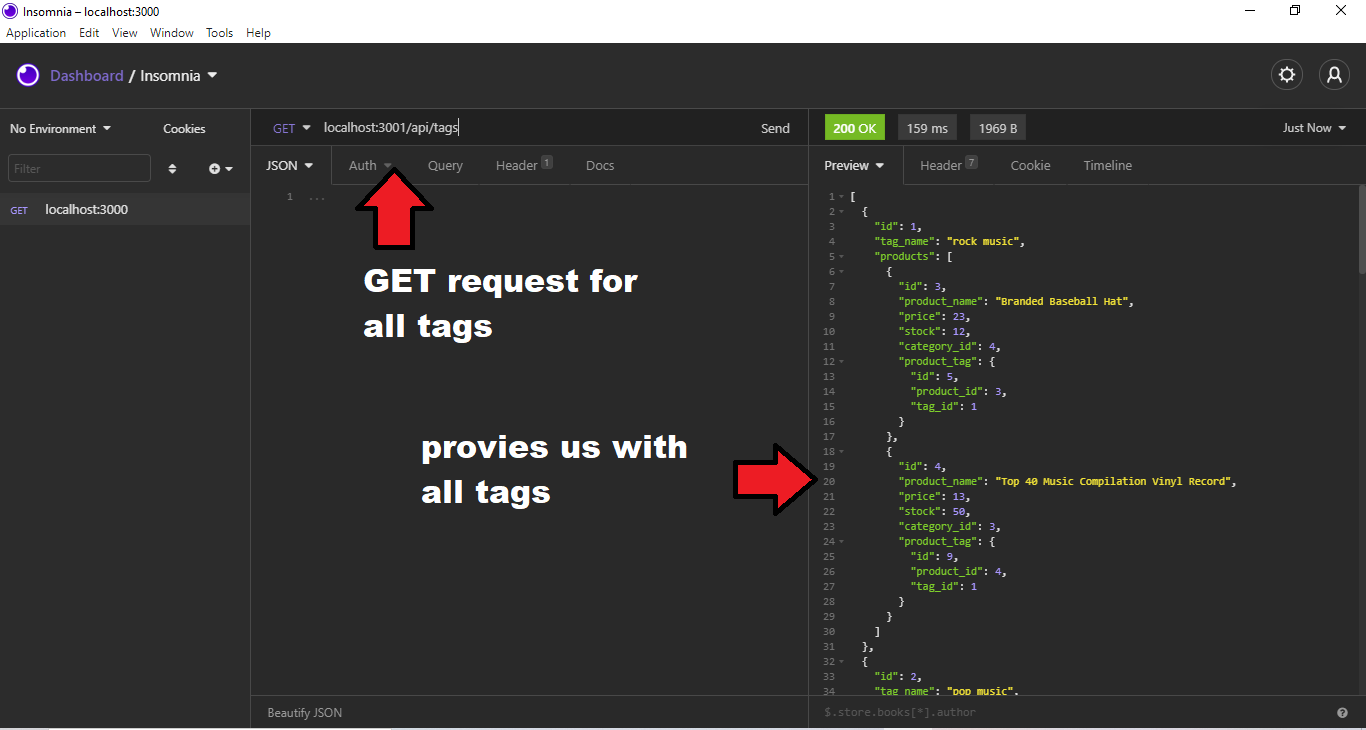
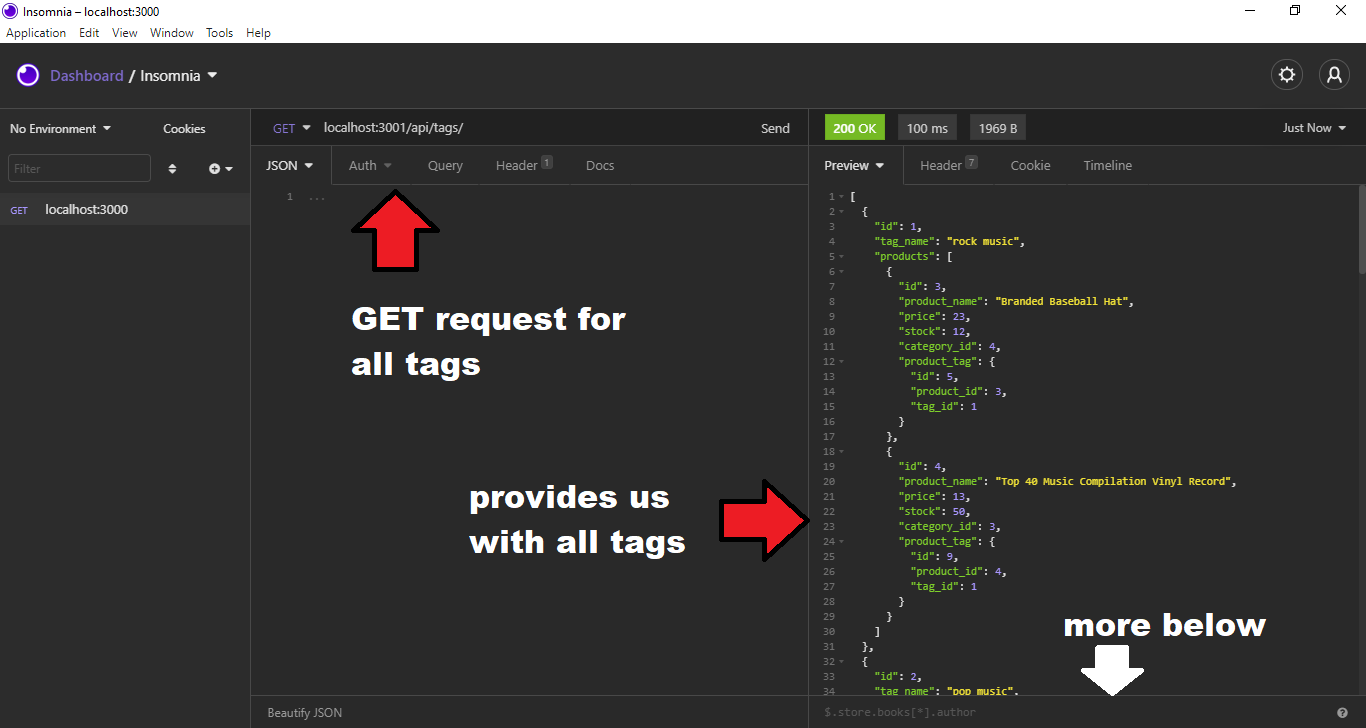
fixed GET ALL tags image

diff --git a/README.md b/README.md
@@ -50,7 +50,7 @@
 
 *GET ALL Tags*
 
-![GA-tags](https://user-images.githubusercontent.com/73864182/112742497-d8559400-8f43-11eb-88d0-e6c9cd67af09.png)
+![GA-tags](https://user-images.githubusercontent.com/73864182/112742785-62066100-8f46-11eb-810a-e1e26cdca4dd.png)
 
 *GET a Tag by id*
 
